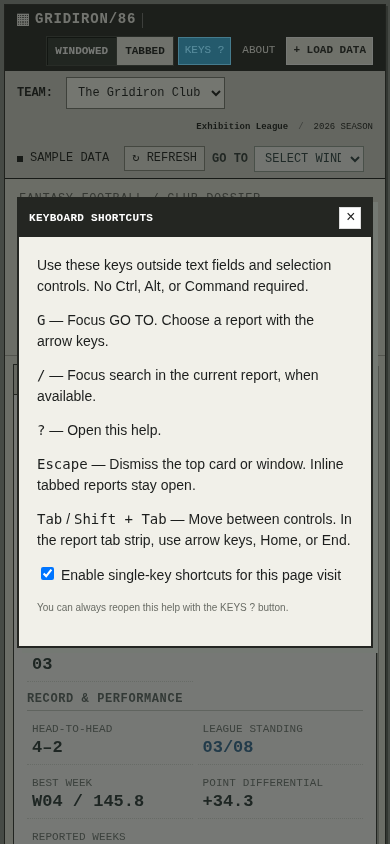
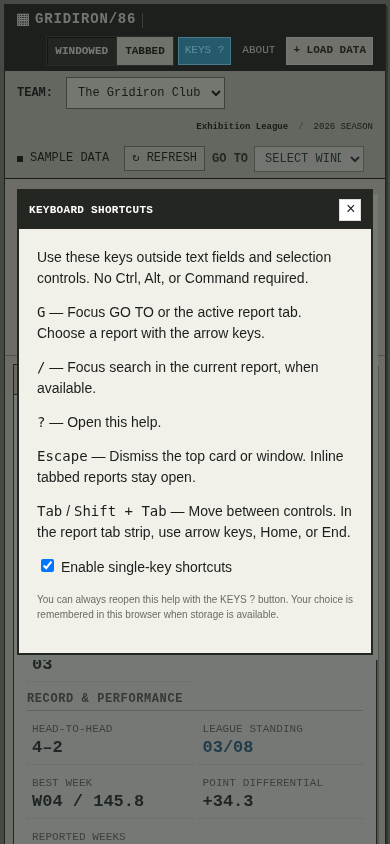
Record exhaustive shortcut audit and remaining ownership boundaries

Changed region(s): [[0.0308, 0.2156, 0.9538, 0.8009]]

diff --git a/fantasy-hub/docs/keyboard-shortcuts.md b/fantasy-hub/docs/keyboard-shortcuts.md
@@ -2,13 +2,14 @@
 
 Branch: `codex/keyboard-shortcuts`. Base: verified latest `origin/main` at
 `74c137e48dfa1b83fb7621a162aacdfaf45195ef` (`git fetch origin main` succeeded).
-Implementation: `0f5c9ada1cdecfed45b27bc07d65220b3684ba23`.
+Initial implementation: `0f5c9ada1cdecfed45b27bc07d65220b3684ba23`.
+Follow-up fixes: `3c53e74`, `ad16f86`, `afa820e`, `a209ec7`, `b23844c`.
 
 ## Keymap
 
 | Key | Action |
 | --- | --- |
-| G | Focus existing GO TO on dashboard/report. Use native arrows/Enter to select a destination. |
+| G | Focus GO TO in Windowed mode or the active report tab in Tabbed mode. Use existing arrow navigation. |
 | / | Focus current report search when available (Free agents, Touches & share, Variable lab). Otherwise leave the key alone. |
 | ? | Open keyboard help. |
 | Escape | Dismiss the top card or native modal. Inline tabbed reports stay open. |
@@ -18,12 +19,14 @@ Implementation: `0f5c9ada1cdecfed45b27bc07d65220b3684ba23`.
 KEYS ? buttons in the main menu and report title bar make help discoverable and
 available on touch screens. Help uses existing chrome, a named/described native
 dialog, initial close-button focus, and native focus restoration. Its checkbox
-disables character shortcuts for this page visit; Escape/native controls remain
-available. No storage writes or navigation label changes were added.
+disables character shortcuts; Escape/native controls remain available. The choice
+is remembered under `gridiron86-keyboard-shortcuts-v1`, only written on explicit
+checkbox changes. Blocked storage falls back to a page-local choice. Workspace
+storage and navigation labels are unchanged.
 
 Character shortcuts ignore inputs, textareas, selects, editable regions, custom
 textbox/combobox/slider roles, composition, legacy IME code 229, repeats, prevented
-events, and Ctrl/Meta/Alt combinations. Shift is allowed only for `?`. Data/About/
+events, and Ctrl/Meta/Alt/AltGraph combinations. Shift is allowed only for `?`. Data/About/
 help modals and metric cards suspend navigation shortcuts. Native selects retain
 typeahead; no global arrows were added. Native report `cancel` also dismisses a
 ranking card first when focus is in a form control.
@@ -38,7 +41,9 @@ Previously, report tabs supported arrows/Home/End; tiles/rows supported Enter/Sp
 native dialogs handled Escape/focus return; metric cards consumed Escape in capture;
 ranking cards supported pointer dismissal only. There was no global keymap/help.
 
-Only public/index.html and new public/shortcuts.js change application code. The
+Application changes are public/index.html, new public/shortcuts.js, a small
+modifier/composition guard on the existing interactions.js metric listener, and
+a focus-ownership guard in the strategy.js usage-search debounce. The
 module uses existing selects and `dismissRankHost`, after metric capture handling.
 It does not change graph focus/reordering/redraw/mobile sizing, workspace preference
 writes, tiles, or navigation labels. Parent owns integration. No push, merge,
@@ -52,7 +57,8 @@ deployment, credentials, live provider requests, or paid actions were performed.
 - `npm test`: **72/72 passed**, including local Cloudflare runtime tests.
 - `node --check public/shortcuts.js` and `git diff --check`: passed.
 - From fantasy-hub, serve with `python3 -m http.server 8765 --directory public`,
-  then run `node scripts/verify-shortcuts.cjs` with Playwright available and Chromium
+  then run `node scripts/verify-shortcuts.cjs` and `node scripts/audit-shortcuts.cjs`
+  with Playwright available and Chromium
   installed. Optional `CHROMIUM_PATH` and `SHORTCUTS_BASE_URL` override defaults
   `/usr/bin/chromium` and `http://127.0.0.1:8765`. Playwright is a QA-environment
   dependency, not an app dependency. External requests are blocked; API responses
@@ -70,5 +76,61 @@ Evidence: [desktop help](screenshots/shortcuts-desktop.png),
 Limitations: Chromium/demo data and simulated composition events; not physical
 mobile hardware, actual OS IMEs, native Safari/Firefox, screen-reader browse mode,
 or live league connections. Existing Enter/Space handlers outside this module
-were preserved. Shortcut opt-out intentionally lasts until reload. No outstanding
-implementation blocker.
+were preserved. Renderer-owned focus issues below need coordination before editing.
+
+
+## Deeper audit and next backlog
+
+The additional browser script covers all 15 WORKSPACE_TABS destinations in both
+Windowed and Tabbed modes (30 combinations): summary, matchup, roster, weekly,
+standings, profile, player-analytics, agents, positions, position-compare,
+league-contributions, outlook, opportunity, trade, graph. It exercises real select
+or tab navigation, G, G then /, absent/present search, typing, help return focus,
+and Escape. It also tests reload/re-enable, unchanged workspace storage, blocked
+storage, help after a real renderExplorer update, held Escape, metric modifier/IME
+exclusions, and AltGraph. All passed; original browser QA and 72 Node tests pass.
+
+Five follow-up fixes were supported by failing cases before implementation:
+
+1. `3c53e74`: G targeted a hidden select in Tabbed mode. It now focuses the active
+   tab; existing workspace arrow navigation remains untouched.
+2. `ad16f86`: disabling single keys reset on reload. Opt-out now persists separately
+   from workspace state, supporting users whose assistive technology uses letters.
+3. `afa820e`: removing a help opener with renderExplorer stranded focus on close.
+   The close handler now falls back to the visible help button only when native
+   focus restoration failed, and never steals focus from another modal/control.
+4. `a209ec7`: held Escape dismissed help and then its report; metric capture also
+   consumed Ctrl+Escape/composing events. Repeat Escape no longer cascades through
+   native modals, and metric capture honors modifiers/composition/repeats.
+5. `b23844c`: delayed Touches & share results reclaimed keyboard focus after a
+   move to another control. The standalone callback now restores search selection
+   only if search still owned focus before updating results. Browser tests cover
+   both moved focus and continued typing.
+
+Sequential G then / intentionally leaves Windowed GO TO focused: it is a select,
+so native typing wins. In Tabbed mode G focuses a tab, and / then focuses report
+search when available. Rapid character repeats cannot reopen help or route again.
+Single-key opt-out remains available through the visible button without keyboard
+shortcuts; actual screen-reader browse-mode testing is still needed.
+
+Priority backlog requiring owner/environment coordination:
+
+- **Renderer focus stealing (reproduced; no overlapping edit attempted):** in
+  Tabbed Free agents and Variable lab, dispatch an input change
+  in the search field then focus KEYS ? before the 170ms debounce expires. After
+  300ms focus returns to agent-search / graph-search respectively.
+  The callbacks unconditionally refocus after updating data. Targets:
+  explorer.js input handler near line 2145 (agents and graph share one handler),
+  Graph focus belongs to the performance task; coordinate ownership before edits.
+  Touches & share was independently fixed in b23844c. Suggested
+  behavior: restore selection only while the same search still owns focus.
+- **Navigation coverage difference (observed; unchanged):** dashboard GO TO lacks
+  position-compare and league-contributions, while report GO TO and tabs include
+  them. All routes were audited through report controls. Site navigation is owned
+  by the UI task/parent; no destinations were added or renamed here.
+- **Cross-browser/assistive technology validation:** native Safari/Firefox,
+  physical keyboards/IME, and screen-reader browse-mode opt-out require those
+  environments. Chromium and synthetic events cannot establish that coverage.
+
+No operations were denied and no outcome is uncertain. The renderer edit is
+pending owner coordination, not a tool/permission rejection.
